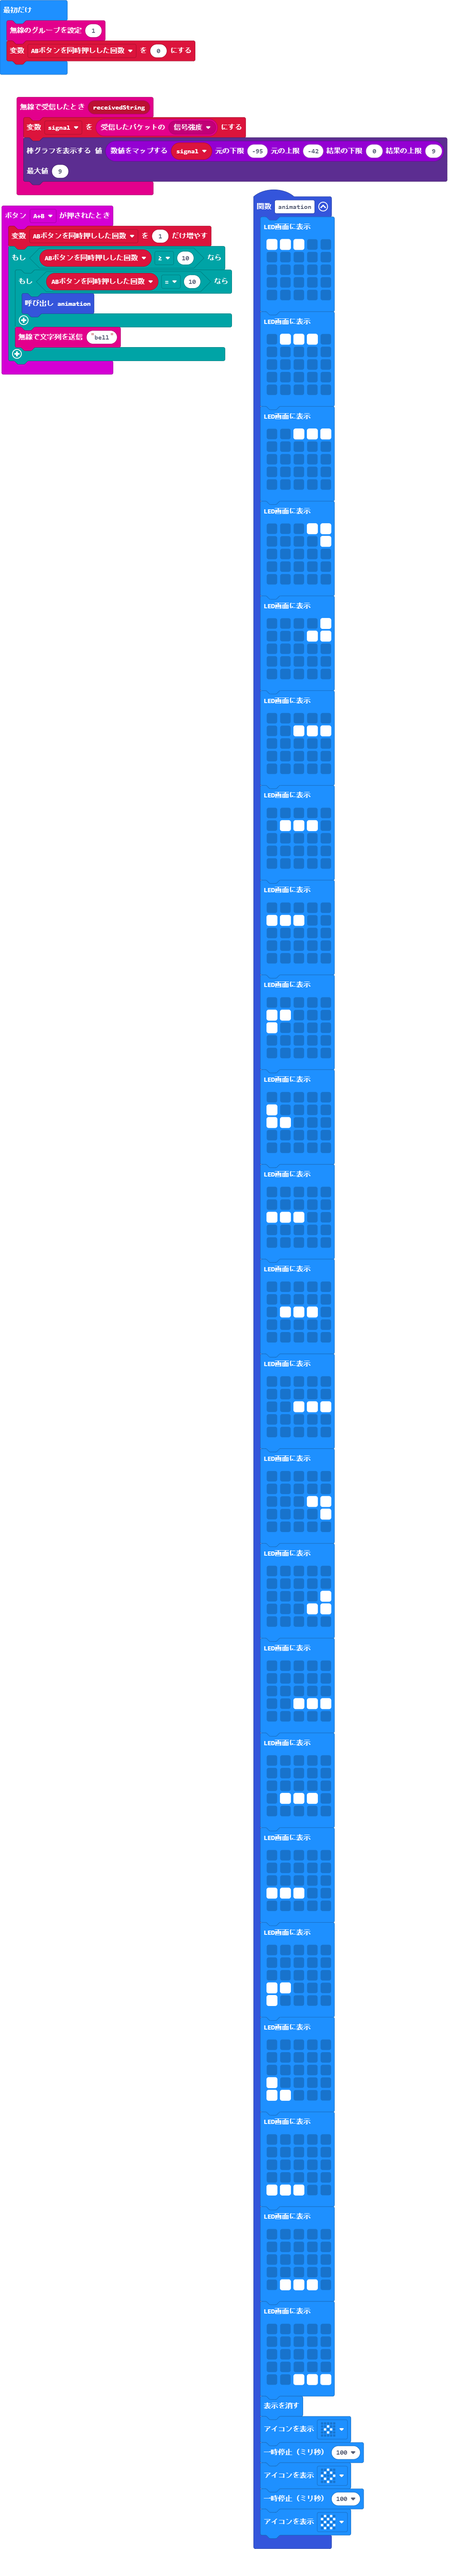
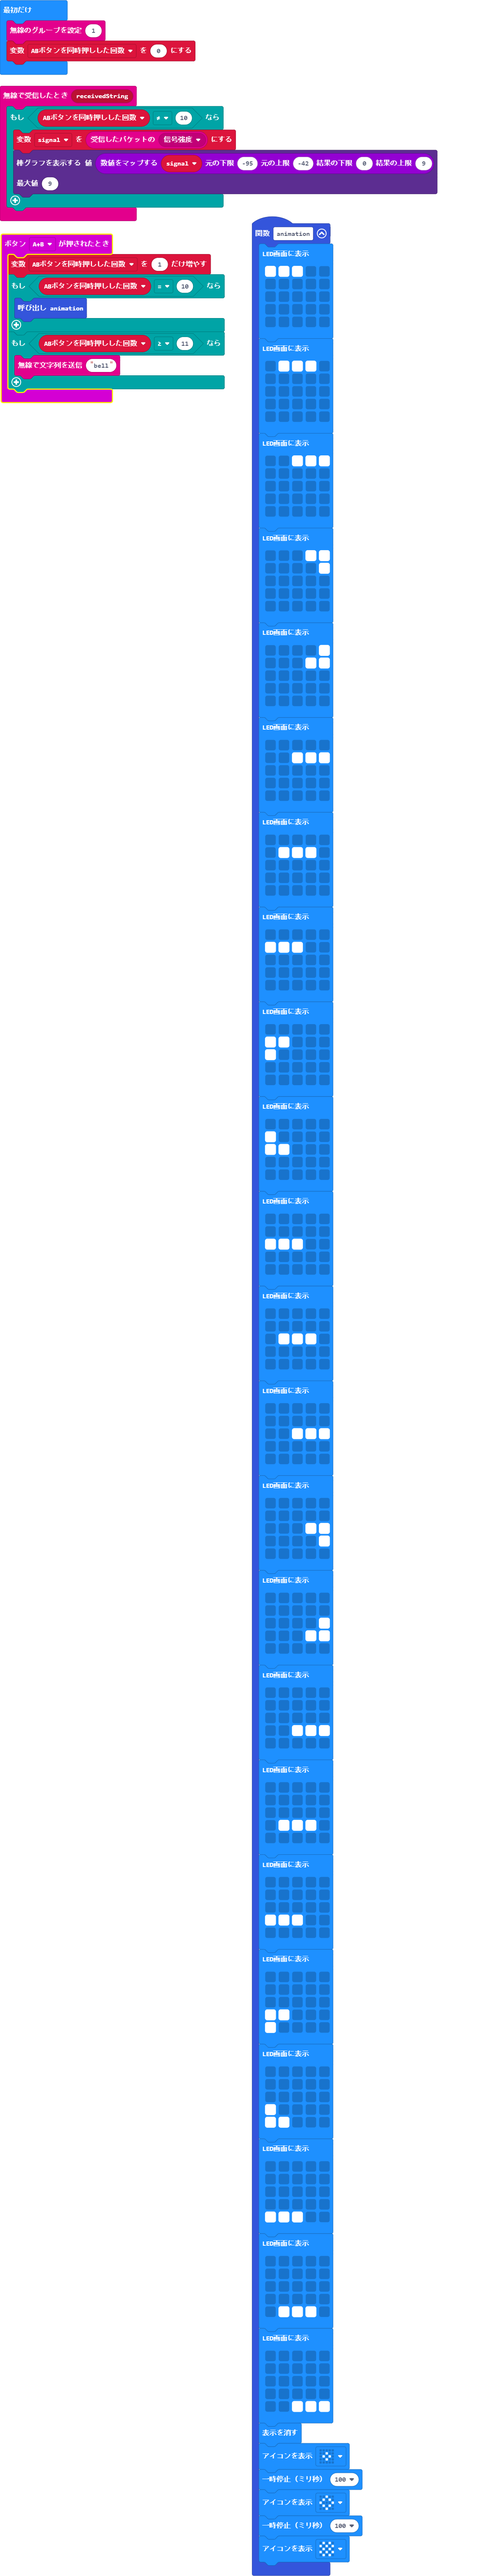
ABボタンを１０回押したときのアニメーションが無線バーと被るバグを修正

Changed region(s): [[0.0, 0.0, 0.9461, 1.0]]

diff --git a/main.ts b/main.ts
@@ -169,19 +169,21 @@ function animation () {
 }
 input.onButtonPressed(Button.AB, function () {
     ABボタンを同時押しした回数 += 1
-    if (ABボタンを同時押しした回数 >= 10) {
-        if (ABボタンを同時押しした回数 == 10) {
-            animation()
-        }
+    if (ABボタンを同時押しした回数 == 10) {
+        animation()
+    }
+    if (ABボタンを同時押しした回数 >= 11) {
         radio.sendString("bell")
     }
 })
 radio.onReceivedString(function (receivedString) {
-    signal = radio.receivedPacket(RadioPacketProperty.SignalStrength)
-    led.plotBarGraph(
-    Math.map(signal, -95, -42, 0, 9),
-    9
-    )
+    if (ABボタンを同時押しした回数 != 10) {
+        signal = radio.receivedPacket(RadioPacketProperty.SignalStrength)
+        led.plotBarGraph(
+        Math.map(signal, -95, -42, 0, 9),
+        9
+        )
+    }
 })
 let signal = 0
 let ABボタンを同時押しした回数 = 0
